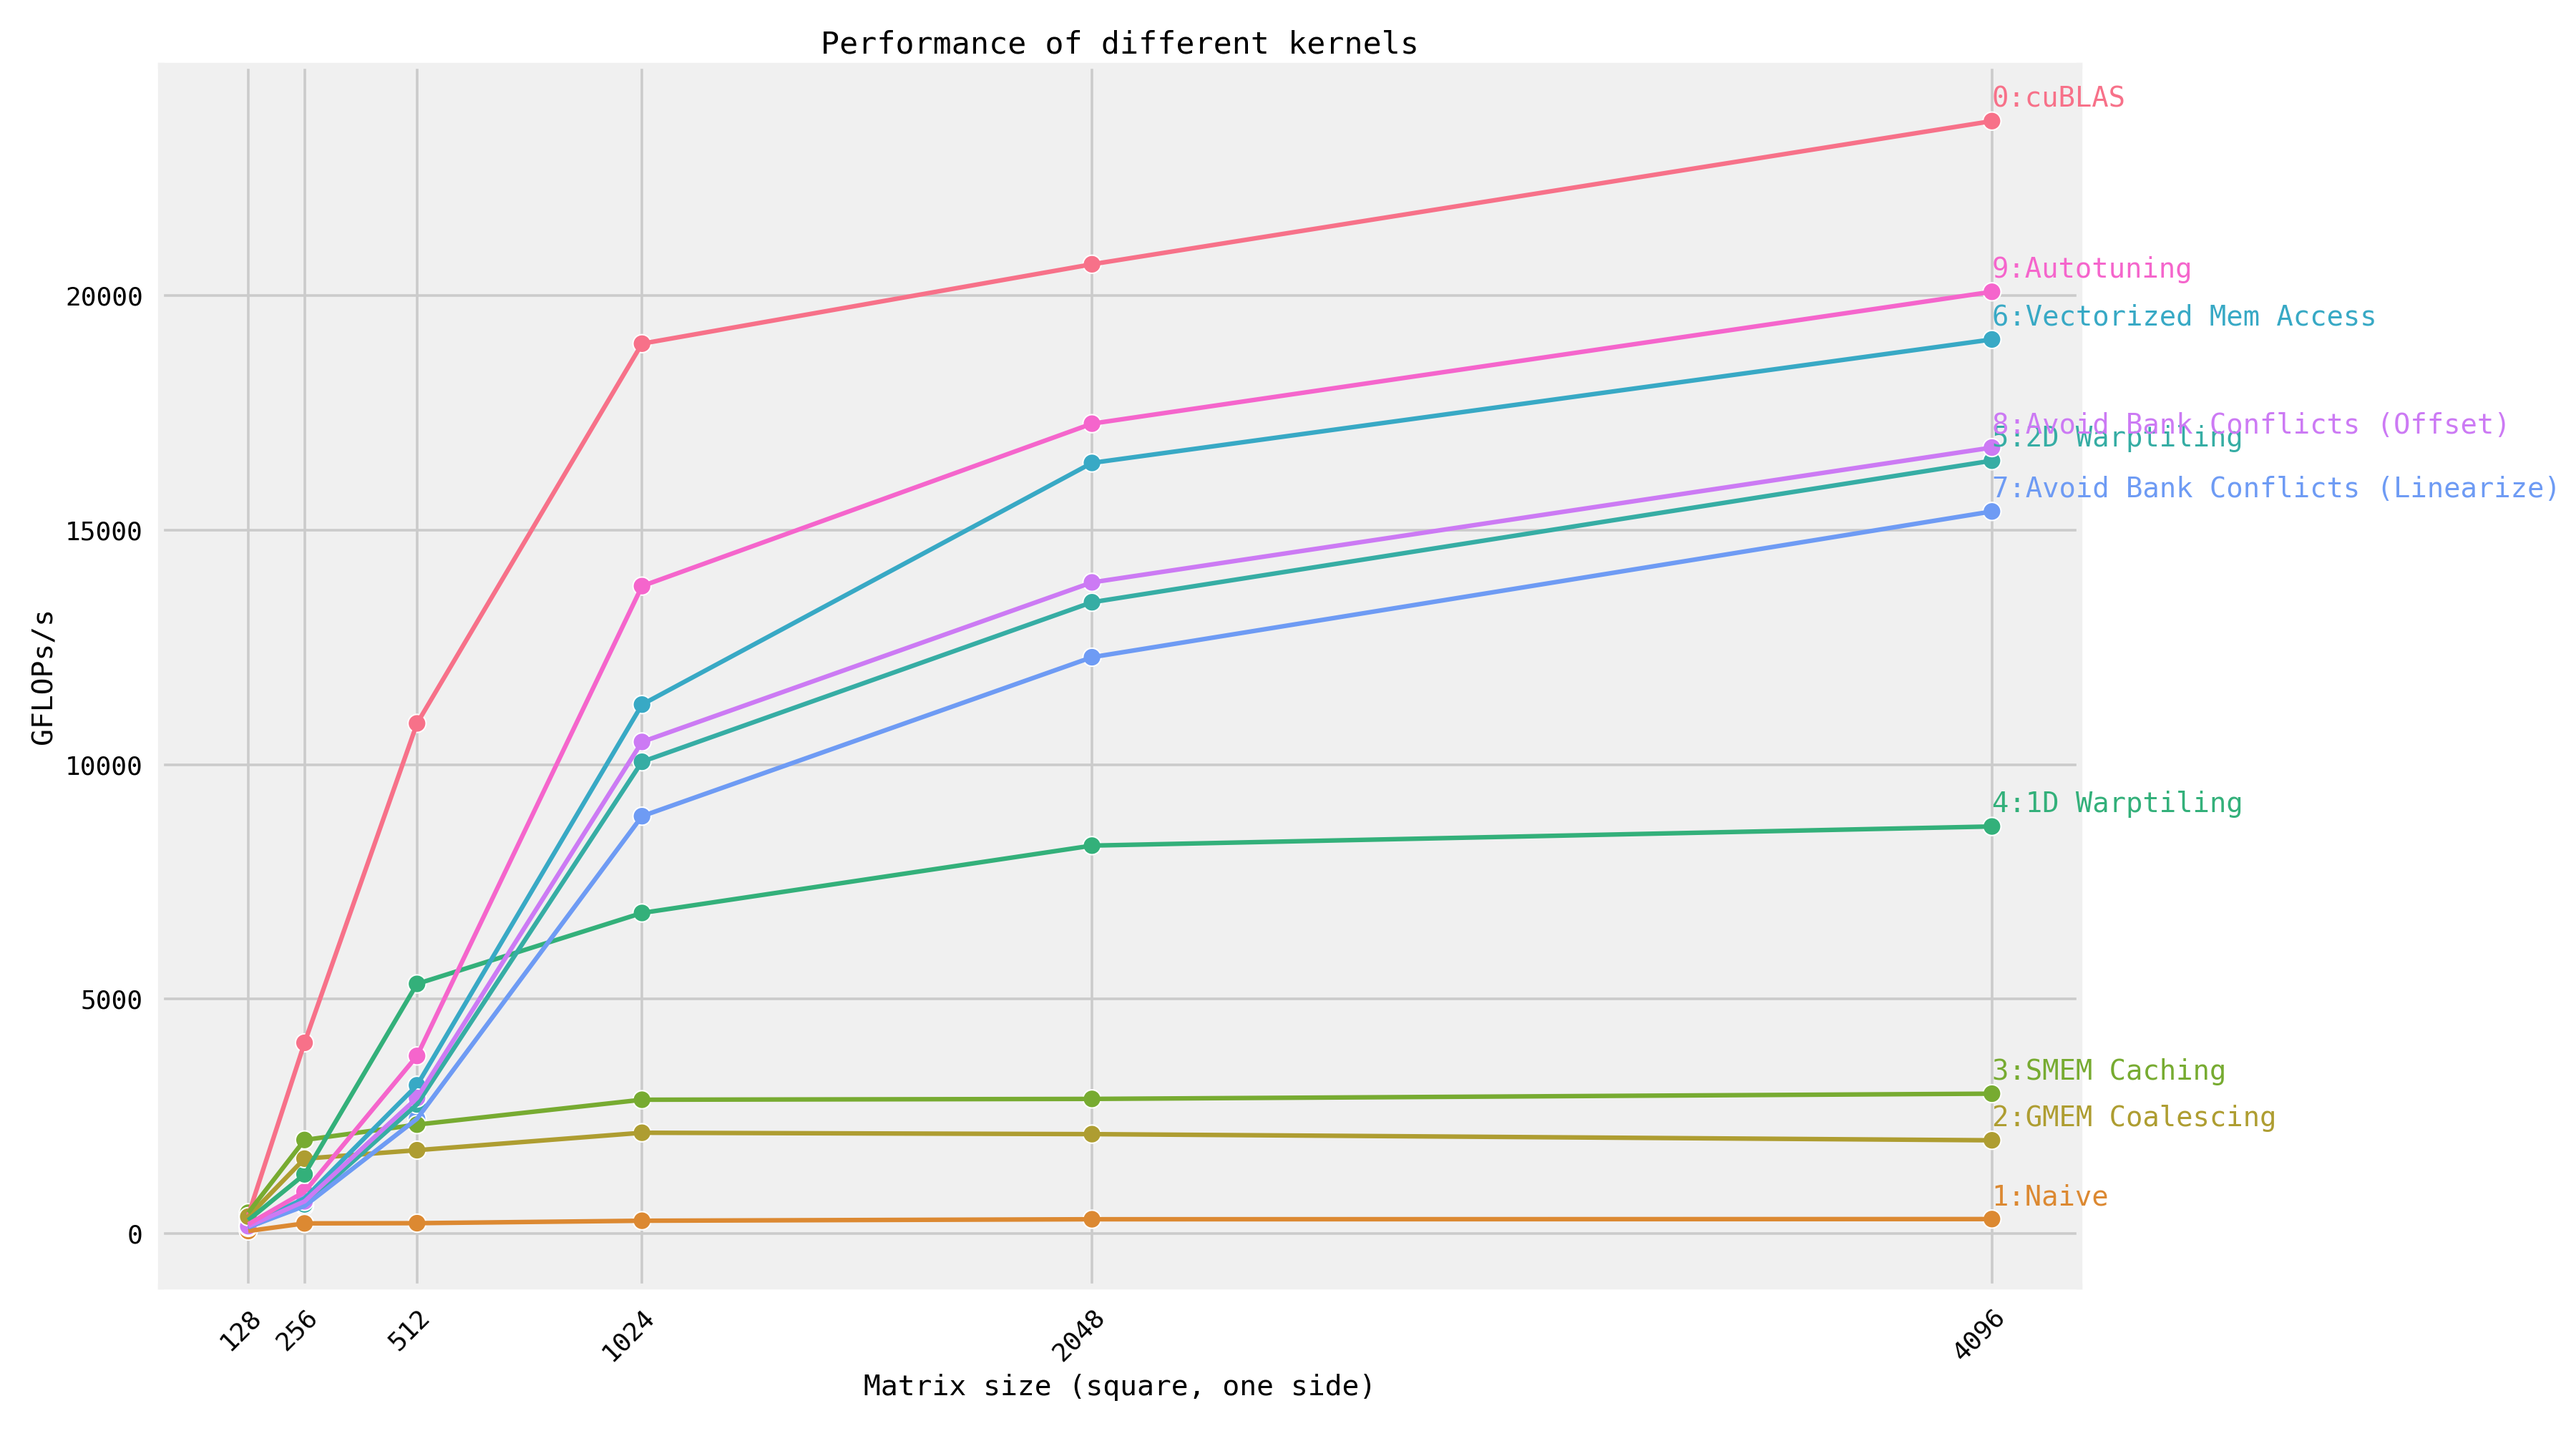
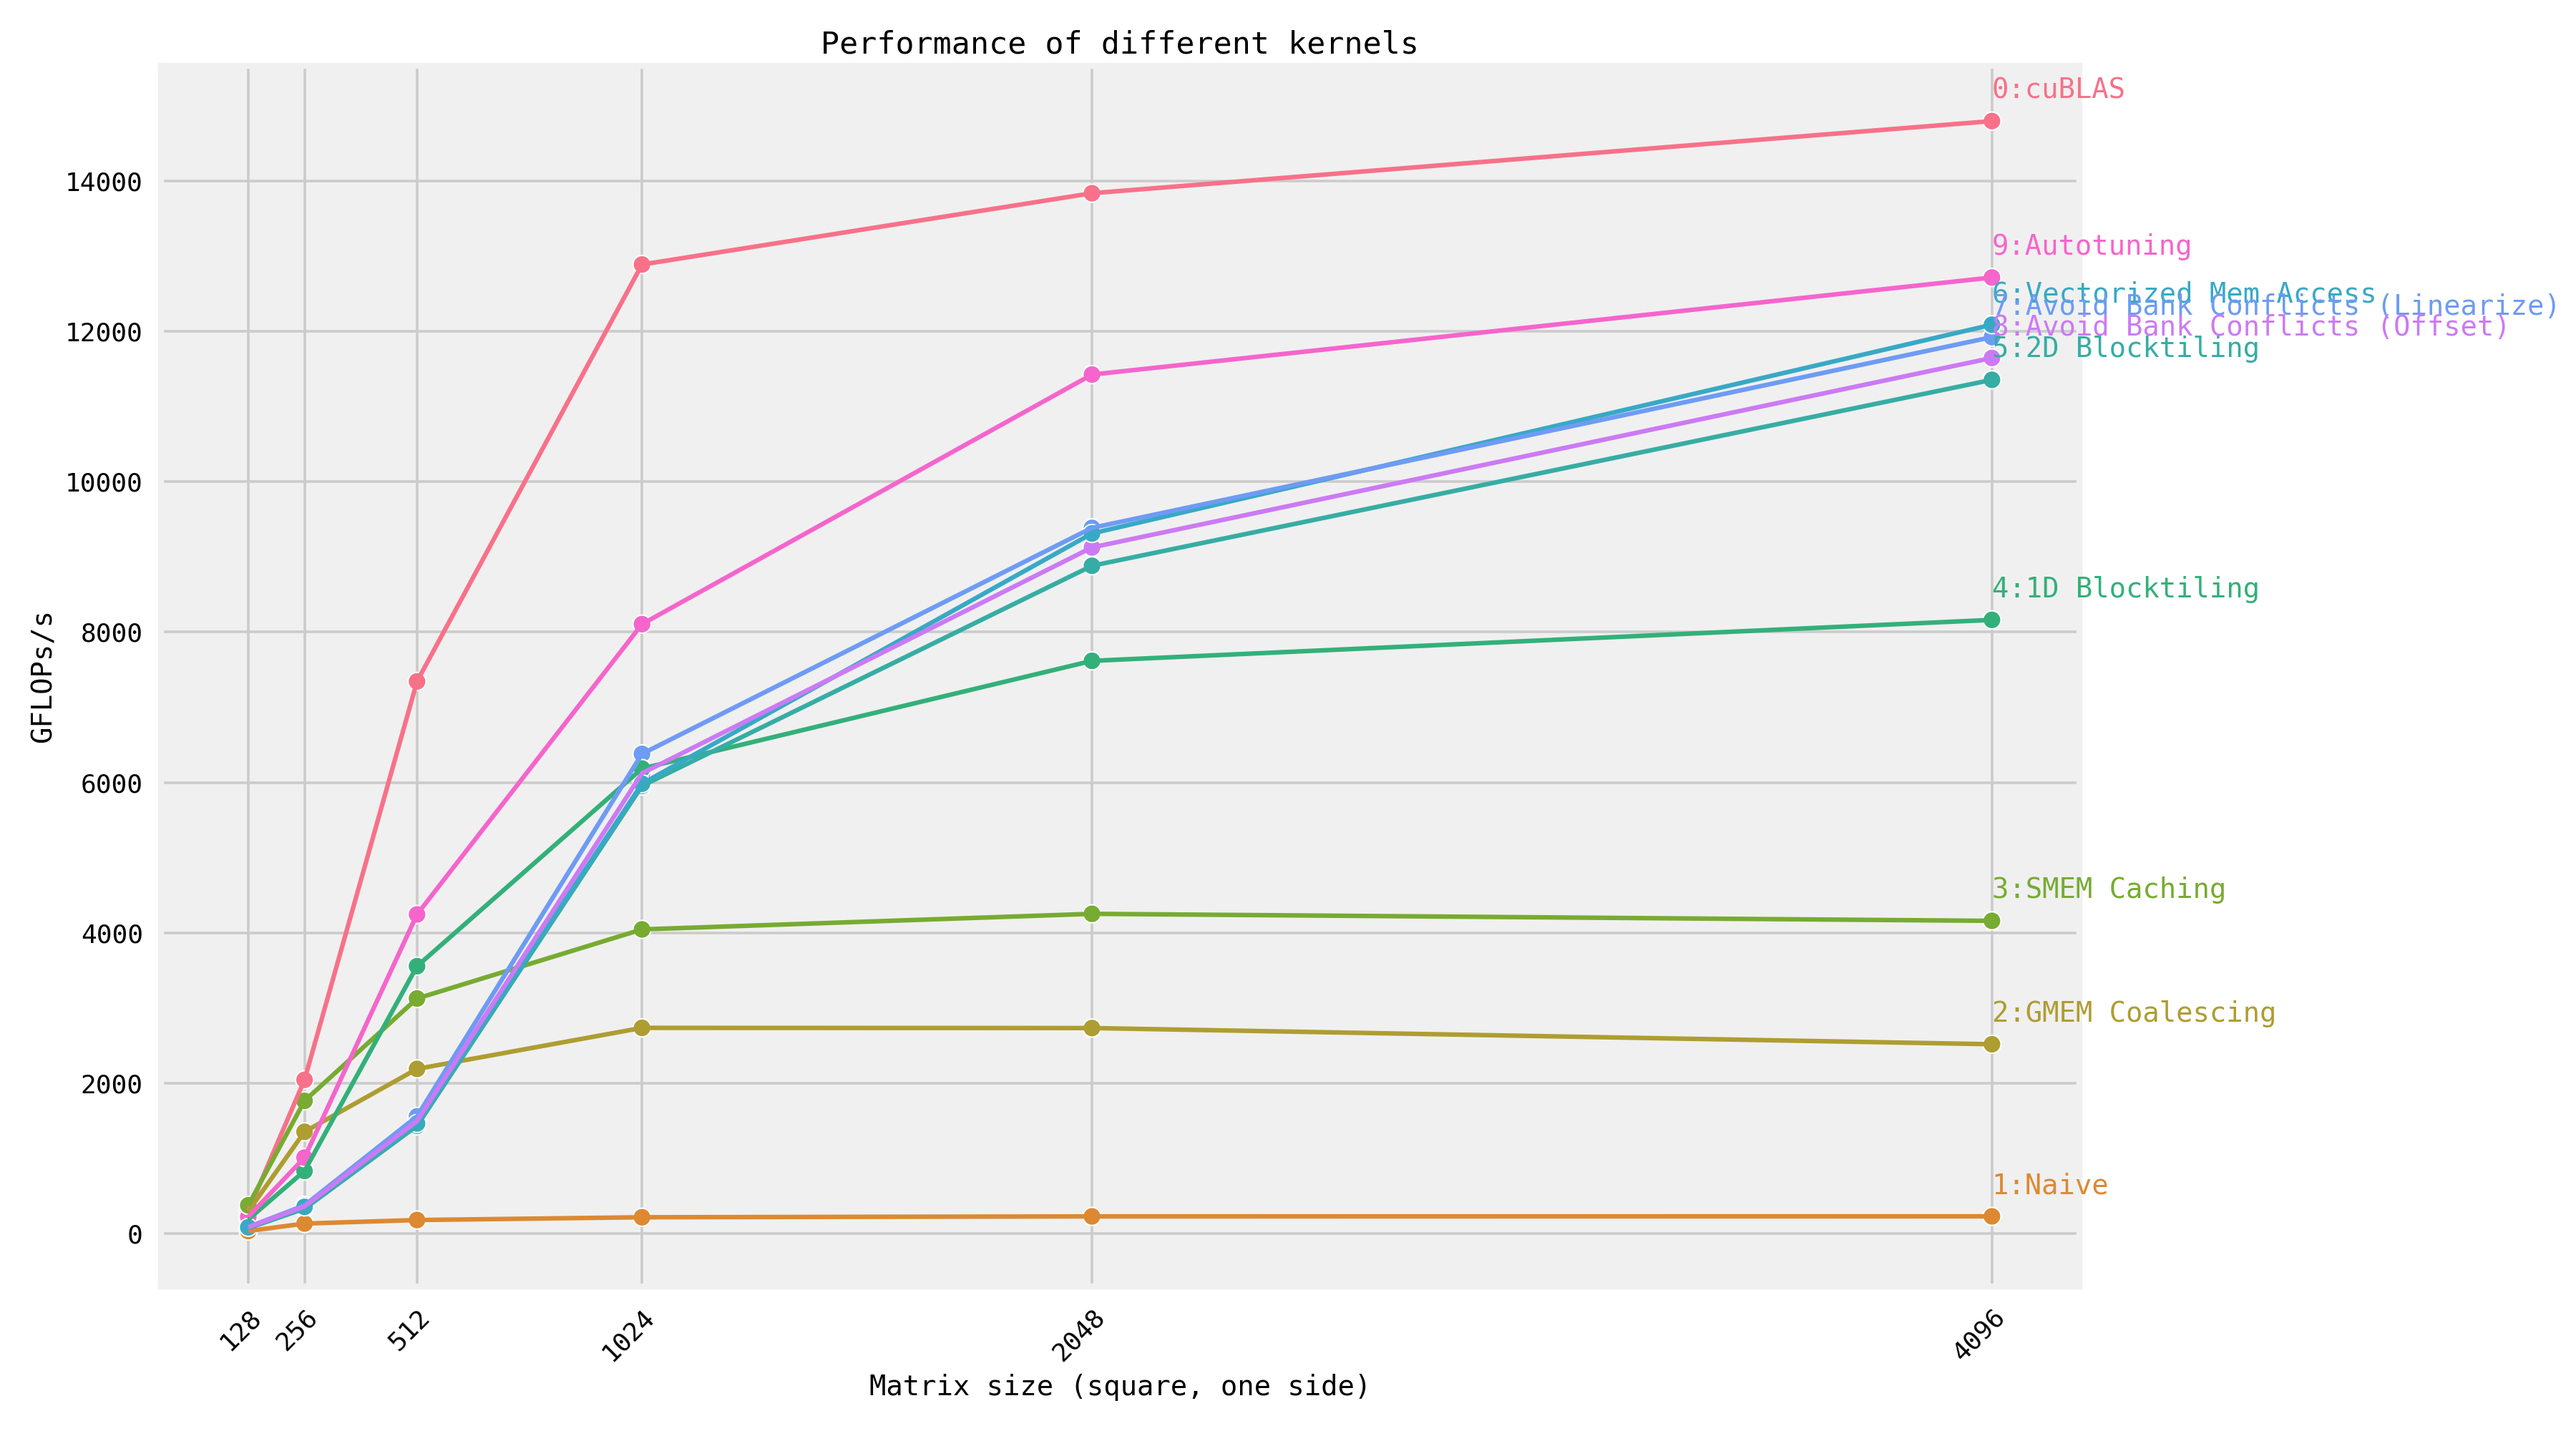
Update plots

diff --git a/plot_benchmark_results.py b/plot_benchmark_results.py
@@ -24,8 +24,8 @@ KERNEL_NAMES = {
     1: "Naive",
     2: "GMEM Coalescing",
     3: "SMEM Caching",
-    4: "1D Warptiling",
-    5: "2D Warptiling",
+    4: "1D Blocktiling",
+    5: "2D Blocktiling",
     6: "Vectorized Mem Access",
     7: "Avoid Bank Conflicts (Linearize)",
     8: "Avoid Bank Conflicts (Offset)",

diff --git a/README.md b/README.md
@@ -15,13 +15,13 @@ GFLOPs at matrix size 4092x4092:
 | Kernel                              |   GFLOPs/s | Performance relative to cuBLAS   |
 |:------------------------------------|-----------:|:---------------------------------|
 | 1: Naive                            |      226.9 | 1.5%                             |
-| 2: GMEM Coalescing                  |     2516.5 | 17.0%                            |
-| 3: SMEM Caching                     |     4158   | 28.1%                            |
-| 4: 1D Warptiling                    |     8164.1 | 55.2%                            |
-| 5: 2D Warptiling                    |    11342.7 | 76.7%                            |
-| 8: Avoid Bank Conflicts (Offset)    |    11649.3 | 78.8%                            |
-| 7: Avoid Bank Conflicts (Linearize) |    11920.3 | 80.6%                            |
-| 6: Vectorized Mem Access            |    12090.5 | 81.7%                            |
+| 2: GMEM Coalescing                  |     2516.7 | 17.0%                            |
+| 3: SMEM Caching                     |     4158.3 | 28.1%                            |
+| 4: 1D Blocktiling                   |     8162.2 | 55.2%                            |
+| 5: 2D Blocktiling                   |    11355.8 | 76.7%                            |
+| 8: Avoid Bank Conflicts (Offset)    |    11646.9 | 78.7%                            |
+| 7: Avoid Bank Conflicts (Linearize) |    11923.9 | 80.6%                            |
+| 6: Vectorized Mem Access            |    12088.9 | 81.7%                            |
 | 9: Autotuning                       |    12717.4 | 86.0%                            |
 | 0: cuBLAS                           |    14792.5 | 100.0%                           |
 <!-- benchmark_results -->
